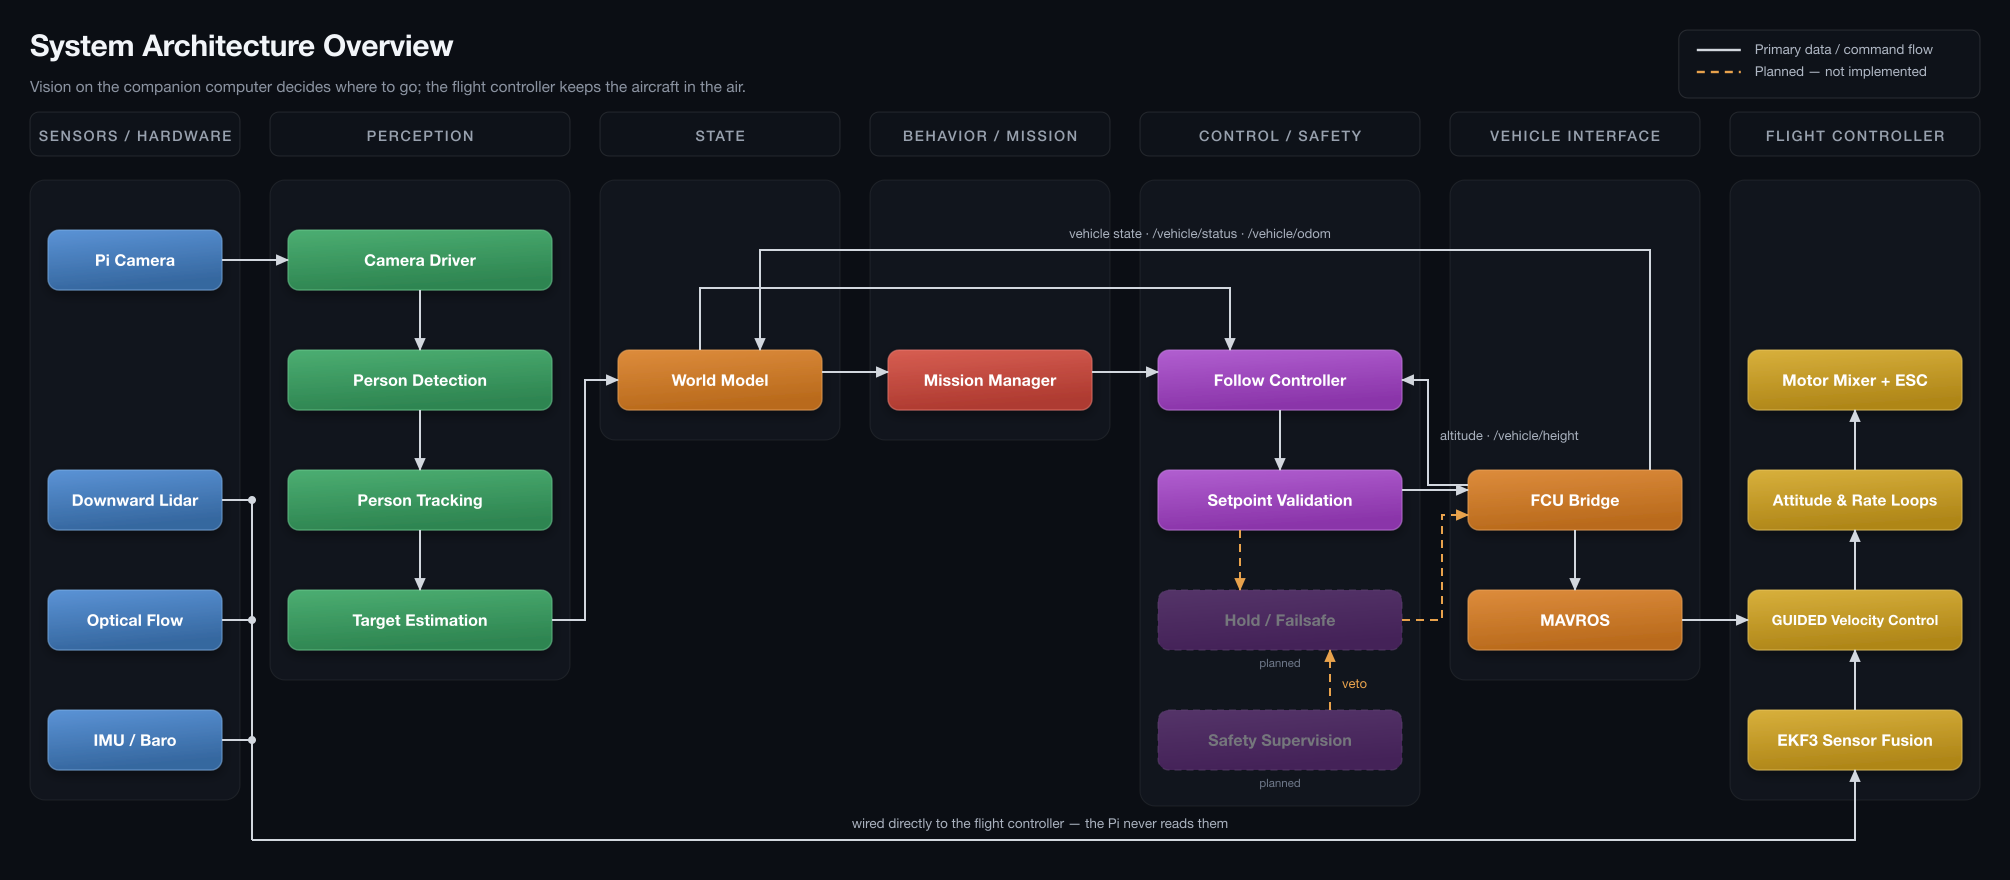
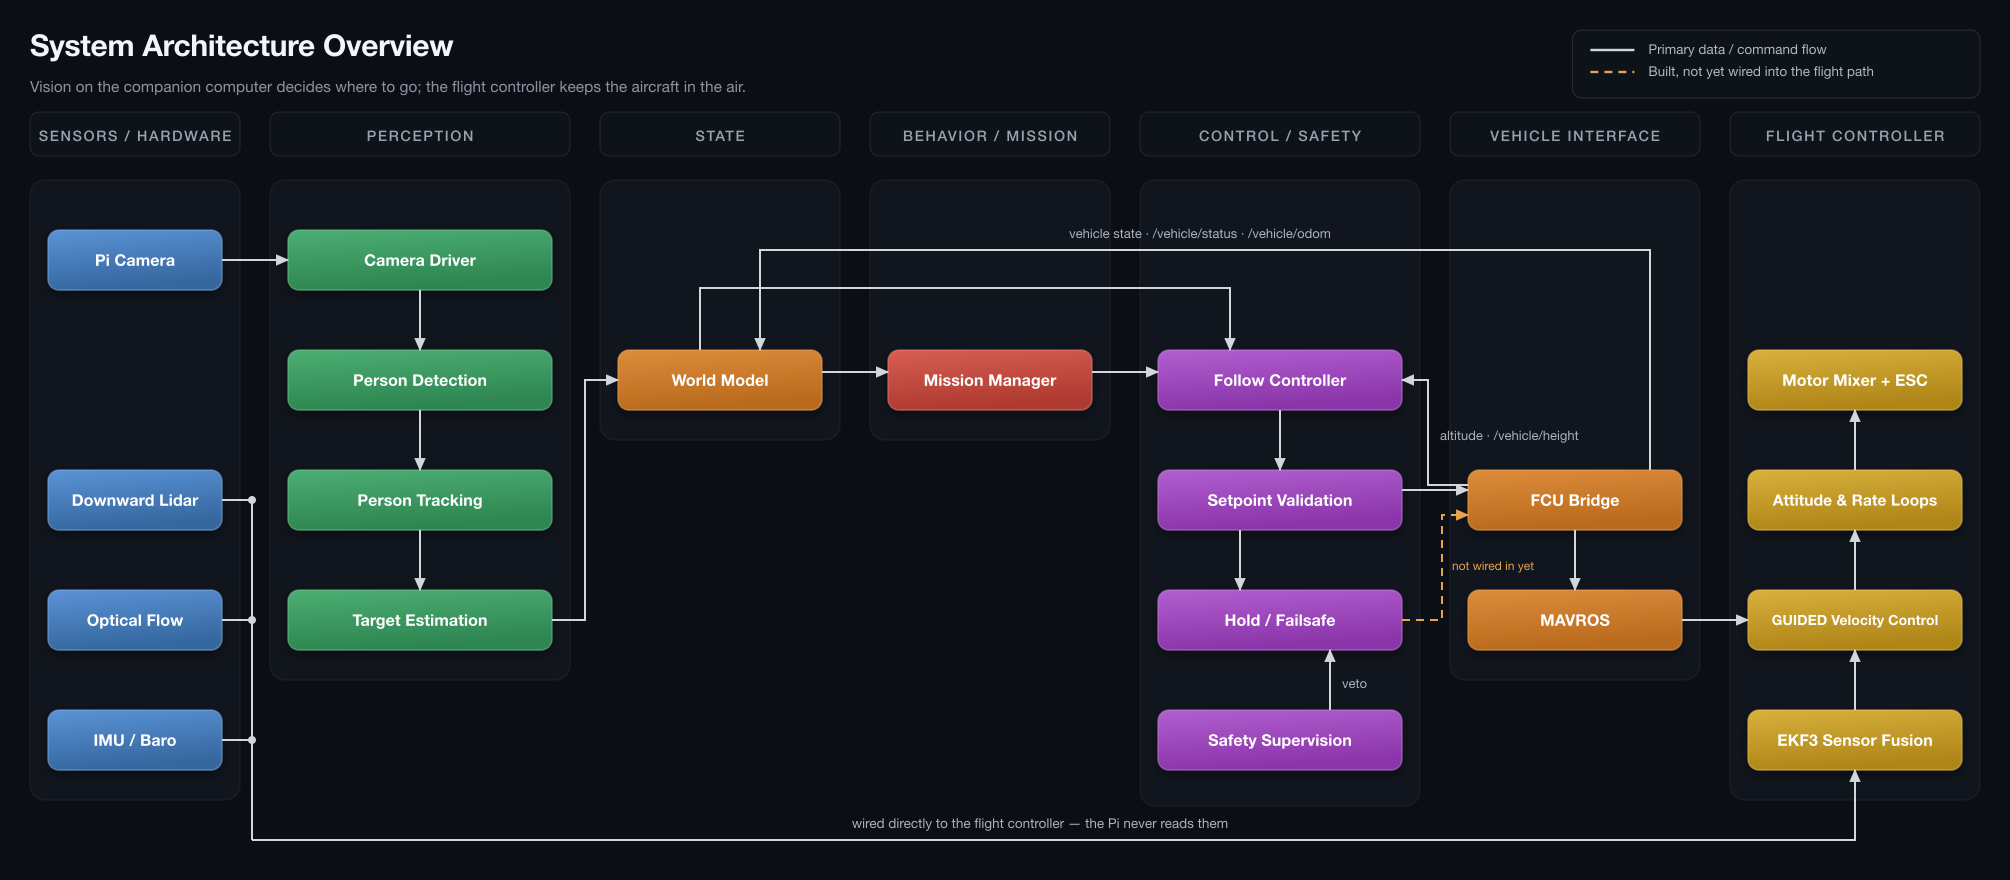
build drone_safety and update the architecture diagrams

Changed region(s): [[0.5552, 0.6443, 0.7095, 0.767], [0.5552, 0.7977, 0.7095, 0.8898], [0.802, 0.0307, 0.9562, 0.092]]

diff --git a/docs/architecture/generate_diagrams.py b/docs/architecture/generate_diagrams.py
@@ -182,7 +182,7 @@ def system_overview():
 
     f.legend(W - 30, 30, [
         (EDGE, None, "Primary data / command flow"),
-        (PLAN, "8 6", "Planned — not implemented"),
+        (PLAN, "8 6", "Built, not yet wired into the flight path"),
     ])
 
     PY = 180
@@ -218,8 +218,8 @@ def system_overview():
 
     box(4, 350, "Follow Controller", "purple")
     box(4, 470, "Setpoint Validation", "purple")
-    box(4, 590, "Hold / Failsafe", "purple", ghost=True, caption="planned")
-    box(4, 710, "Safety Supervision", "purple", ghost=True, caption="planned")
+    box(4, 590, "Hold / Failsafe", "purple")
+    box(4, 710, "Safety Supervision", "purple")
 
     box(5, 470, "FCU Bridge", "orange")
     box(5, 590, "MAVROS", "orange")
@@ -257,14 +257,15 @@ def system_overview():
     f.line([(1468, 485), (1428, 485), (1428, 380), (1402, 380)])
     f.text(1440, 440, "altitude · /vehicle/height", size=13, fill=LABEL)
 
-    # ── planned safety chain ────────────────────────────────────────────────
-    f.line([(1240, 530), (1240, 590)], stroke=PLAN, dash="8 6",
-           marker="arrow_plan")
-    f.line([(1330, 710), (1330, 650)], stroke=PLAN, dash="8 6",
-           marker="arrow_plan")
-    f.text(1342, 688, "veto", size=13, fill=PLAN)
+    # ── safety chain ────────────────────────────────────────────────────────
+    f.line([(1240, 530), (1240, 590)])
+    f.line([(1330, 710), (1330, 650)])
+    f.text(1342, 688, "veto", size=13, fill=LABEL)
+    # Built and running, but fcu_bridge still reads setpoint_validated. The
+    # switch is the last step, after both nodes are ground-tested.
     f.line([(1402, 620), (1442, 620), (1442, 515), (1468, 515)],
            stroke=PLAN, dash="8 6", marker="arrow_plan")
+    f.text(1452, 570, "not wired in yet", size=12, fill=PLAN)
 
     # ── flight-critical sensors are wired to the FC, never to the Pi ────────
     for y in (500, 620, 740):
@@ -290,7 +291,7 @@ def ros_graph():
 
     f.legend(W - 30, 30, [
         (EDGE, None, "ROS 2 topic"),
-        (PLAN, "8 6", "Planned — drone_safety not implemented"),
+        (PLAN, "8 6", "Published, no subscriber yet"),
     ])
 
     PY = 180
@@ -323,8 +324,8 @@ def ros_graph():
 
     box(4, 350, "follow_controller_node", "purple")
     box(4, 470, "setpoint_validation_node", "purple")
-    box(4, 590, "hold_failsafe_node", "purple", ghost=True)
-    box(4, 710, "safety_supervision_node", "purple", ghost=True)
+    box(4, 590, "hold_failsafe_node", "purple")
+    box(4, 710, "safety_supervision_node", "purple")
 
     box(5, 470, "fcu_bridge_node", "orange")
     box(5, 630, "mavros", "orange")
@@ -383,12 +384,21 @@ def ros_graph():
     f.line([(1660, 470), (1660, 310), (1470, 310), (1470, 350)])
     lab(1565, 298, "/vehicle/height", anchor="middle")
 
-    # ── planned drone_safety chain ──────────────────────────────────────────
-    f.line([(1340, 530), (1340, 590)], stroke=PLAN, dash="8 6",
-           marker="arrow_plan")
-    f.line([(1470, 710), (1470, 650)], stroke=PLAN, dash="8 6",
-           marker="arrow_plan")
-    lab(1482, 688, "veto", fill=PLAN)
+    # ── drone_safety ────────────────────────────────────────────────────────
+    f.line([(1340, 530), (1340, 590)])
+    lab(1328, 566, "/control/setpoint_validated", anchor="end")
+
+    f.line([(1268, 515), (1232, 515), (1232, 740), (1268, 740)])
+    lab(1220, 645, "/control/setpoint_validated", anchor="end")
+
+    f.line([(1470, 710), (1470, 650)])
+    lab(1482, 688, "/safety/status")
+
+    f.line([(1917, 500), (1945, 500), (1945, 740), (1542, 740)])
+    lab(1750, 728, "/vehicle/status  ·  /vehicle/height", anchor="middle")
+
+    # Published every tick, but fcu_bridge still subscribes to
+    # /control/setpoint_validated. Switching it over is the last step.
     f.line([(1542, 620), (1556, 620), (1556, 515), (1613, 515)],
            stroke=PLAN, dash="8 6", marker="arrow_plan")
     lab(1530, 560, "/control/setpoint_safe", anchor="end", fill=PLAN)
